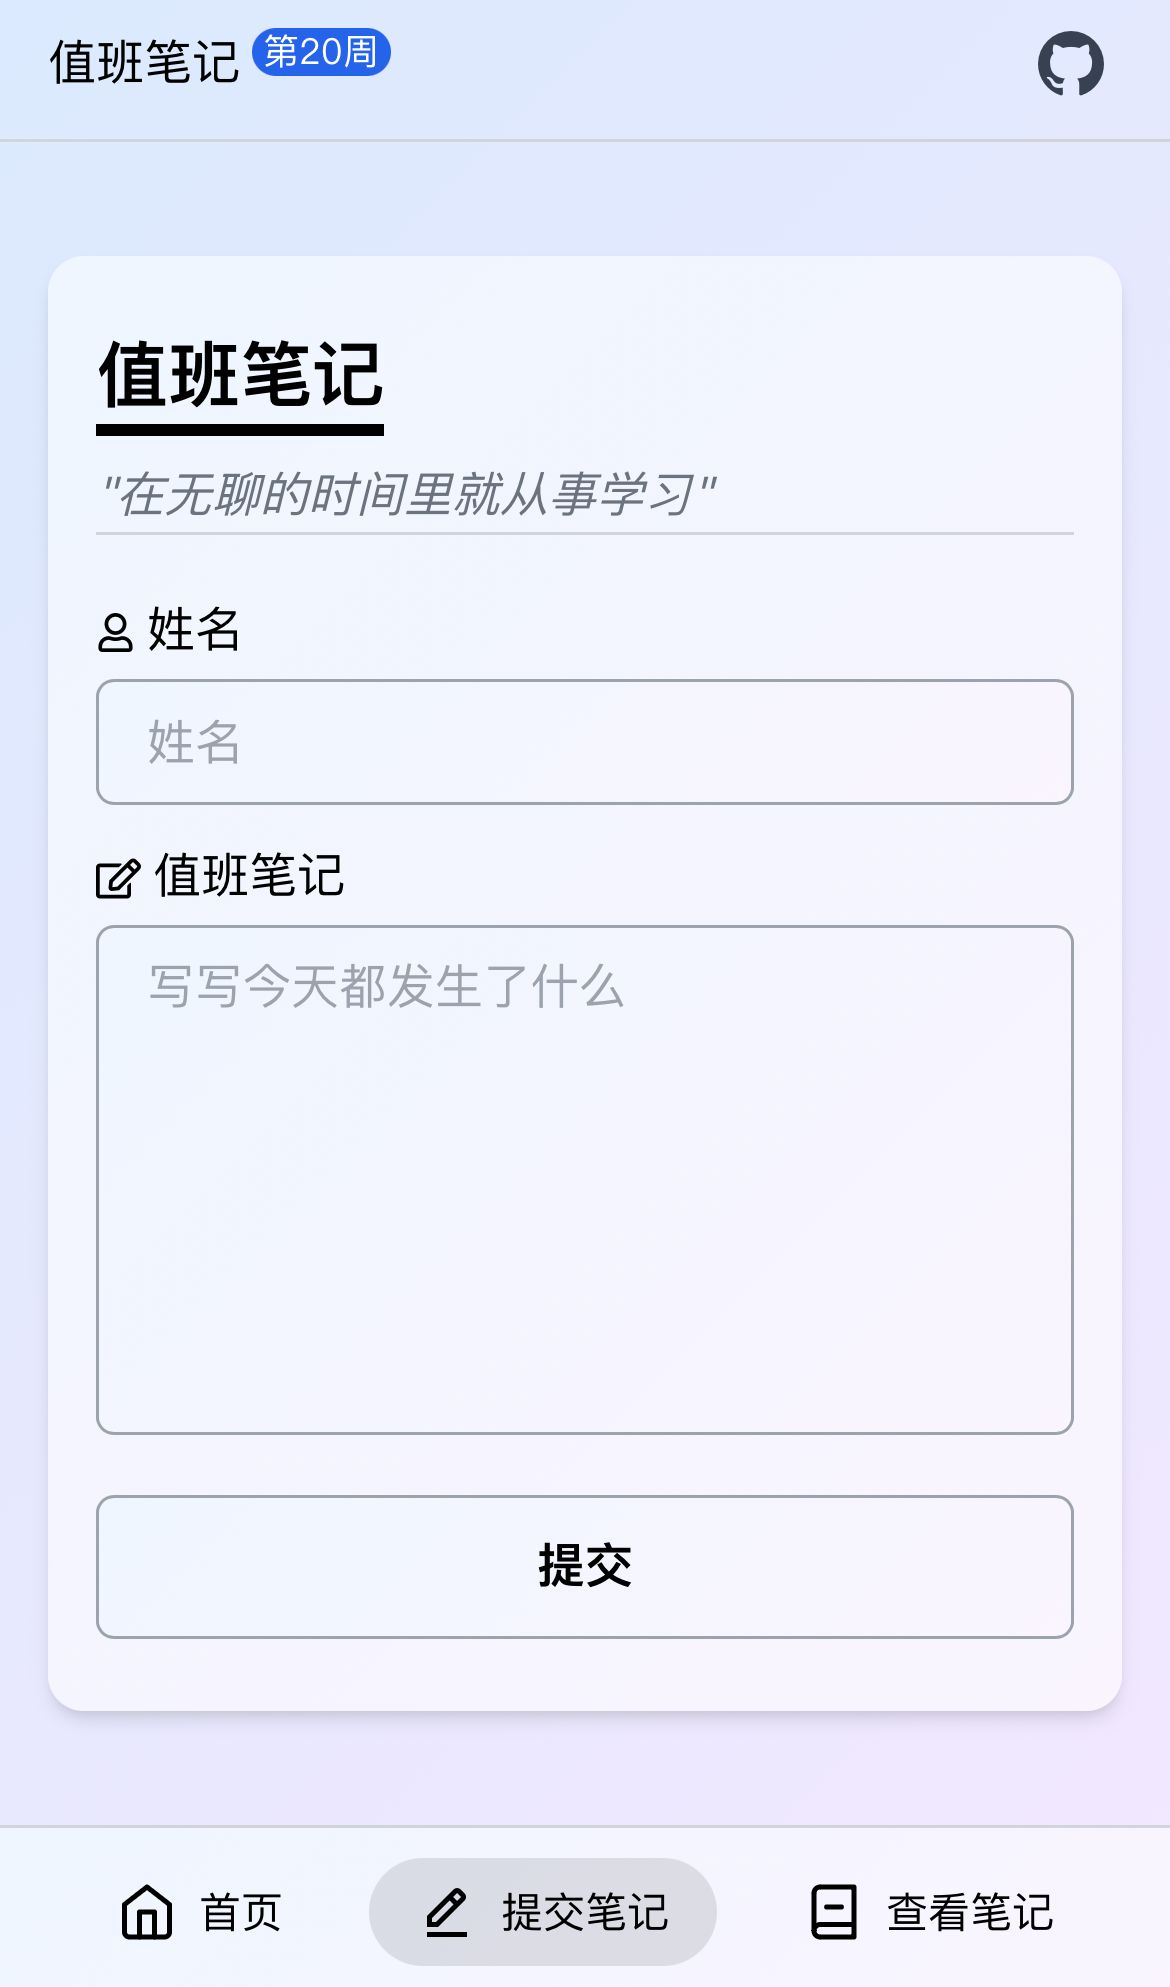
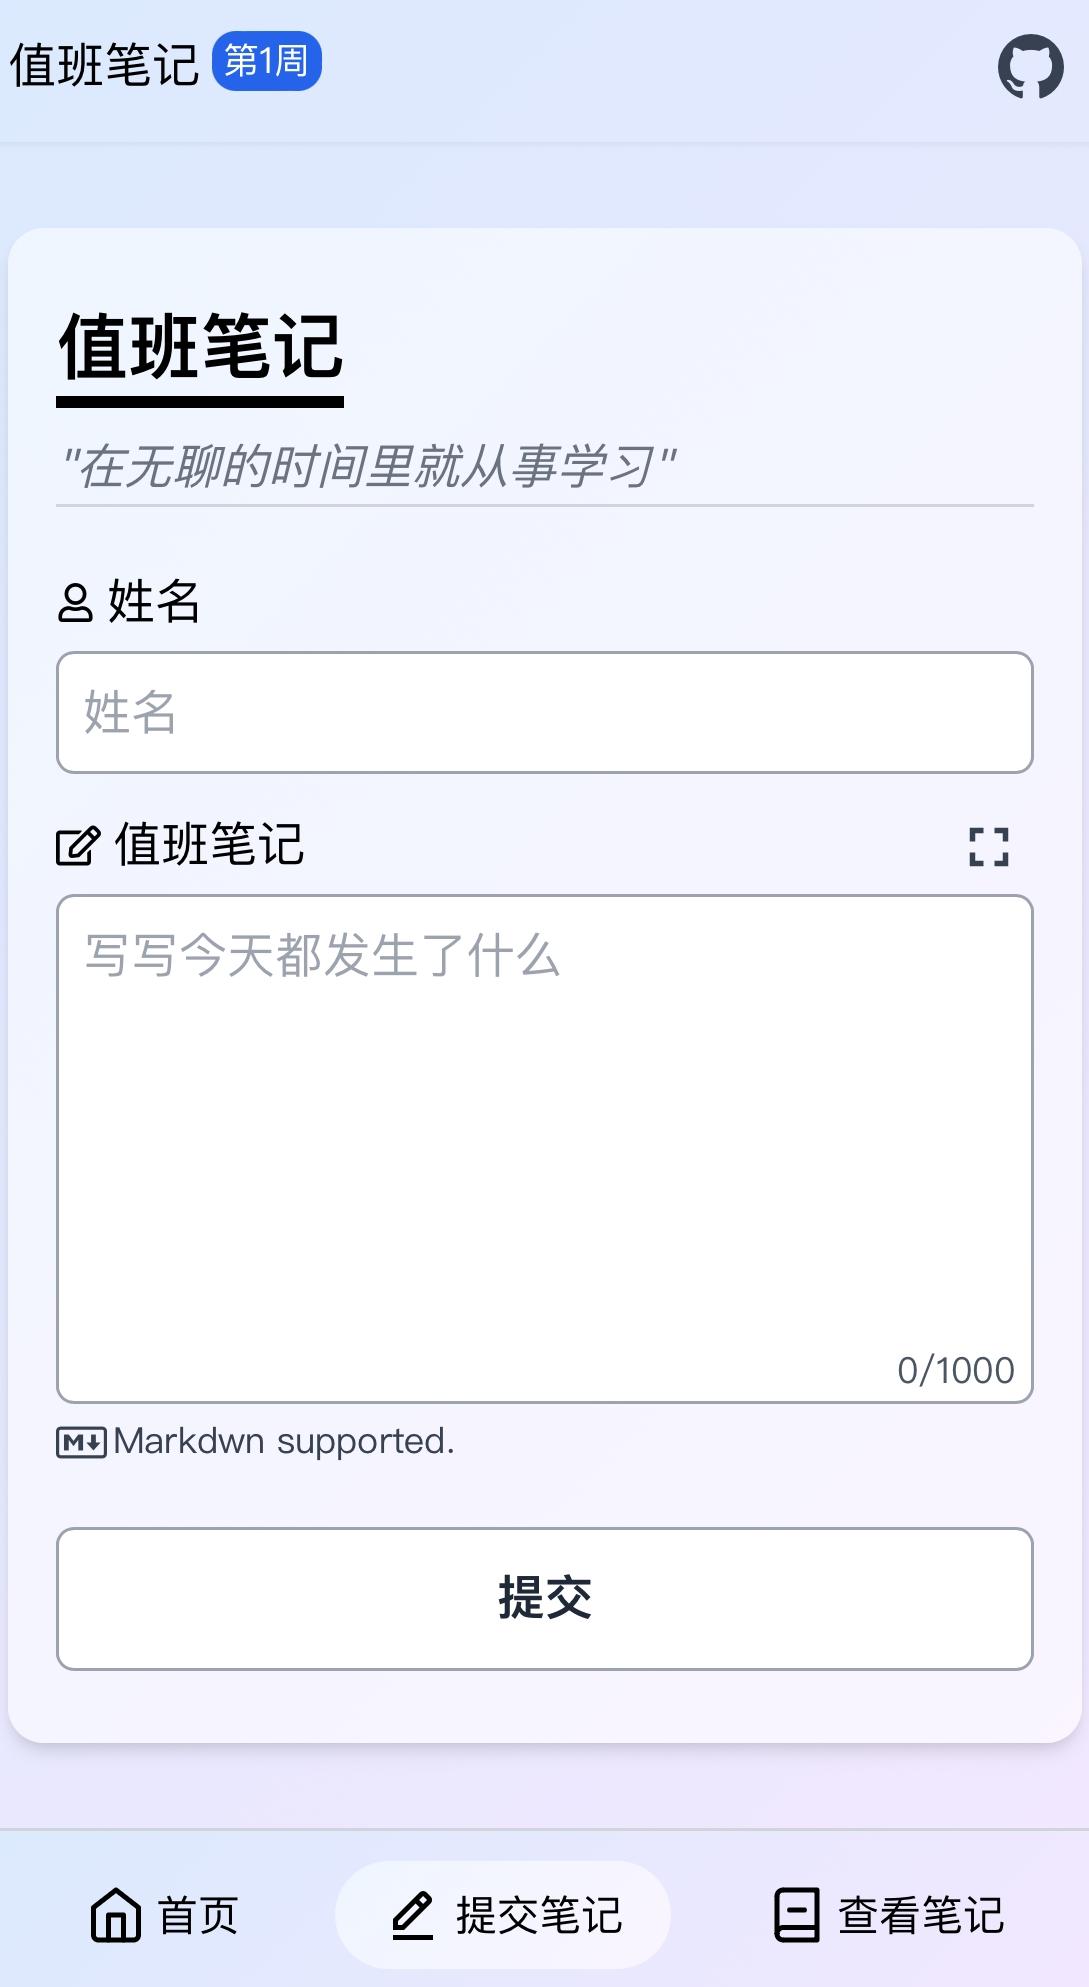
feat: optimise editor on mobile devices

diff --git a/src/app/form/components/Form/Form.tsx b/src/app/form/components/Form/Form.tsx
@@ -6,6 +6,7 @@ import { useFormState } from "react-dom";
 import { useRouter } from "next/navigation";
 import { useState, useEffect } from "react";
 import { LiaMarkdown } from "react-icons/lia";
+import { MdOutlineFullscreen } from "react-icons/md";
 import { FaRegUser, FaRegEdit } from "react-icons/fa";
 
 import action from "../../lib/action";
@@ -13,22 +14,22 @@ import style from "../style.module.css";
 import formatDate from "@/lib/utils/formatDate";
 import { usePopupContext } from "@/contexts/Popup/PopupProvider";
 
-import MarkdownEditor from "./Editor";
+import FullscreenEditor from "./FullscreenEditor";
 import Message from "@/components/Message/Message";
 import SubmitButton from "../SubmitButton/SubmitButton";
 
-const storageName = "user";
-const cookieName = "last_submit";
+const storageName = "punch-username";
+const cookieName = "punch-last-submit-date";
 
 export default function Form() {
   const router = useRouter();
   const { popup } = usePopupContext();
   const [formActionState, formAction] = useFormState(action, null);
 
-  const [formData, setFormData] = useState({ name: "", content: "" });
+  const [fullscreen, setFullscreen] = useState(false);
+  const [name, setName] = useState("");
+  const [content, setContent] = useState("");
   const [status, setStatus] = useState<null | "idle" | "done" | "duplicated">(null);
-
-  const handleChange = (e: any) => setFormData({ ...formData, [e.target.name]: e.target.value });
 
   // handle submit result
   useEffect(() => {
@@ -36,7 +37,7 @@ export default function Form() {
 
     const { success, message } = formActionState;
     if (success) {
-      localStorage.setItem(storageName, JSON.stringify({ name: formData.name }));
+      localStorage.setItem(storageName, name);
       document.cookie = `${cookieName}=${new Date().toISOString()};max-age=${60 * 60 * 24};path=/;`;
       setStatus("done");
       router.refresh();
@@ -48,8 +49,8 @@ export default function Form() {
 
   useEffect(() => {
     // parse user submit info
-    const localUserInfo = localStorage.getItem(storageName);
-    if (localUserInfo) setFormData({ ...formData, ...JSON.parse(localUserInfo) });
+    const localUsername = localStorage.getItem(storageName);
+    if (localUsername) setName(localUsername);
 
     // get last submit time
     const lastSubmit = document.cookie.match(new RegExp("\\b" + cookieName + "\\b=([^;]*)"))?.at(1);
@@ -75,7 +76,14 @@ export default function Form() {
     );
   } else {
     return (
-      <form className={style.form} action={formAction}>
+      <form className={style.form} action={formAction} onSubmit={() => console.log(content)}>
+        <FullscreenEditor
+          content={content}
+          fullscreen={fullscreen}
+          setContent={setContent}
+          setFullscreen={setFullscreen}
+        />
+
         <header className="w-full space-y-2">
           <h1 className="text-2xl font-semibold border-b-4 border-b-black w-fit">值班笔记</h1>
           <p className="text-gray-500 border-b border-b-gray-300 italic">"在无聊的时间里就从事学习"</p>
@@ -88,41 +96,56 @@ export default function Form() {
               <span>姓名</span>
             </label>
             <input
+              autoFocus={name.length === 0}
               required
               type="text"
               name="name"
               id="submitFormName"
               placeholder="姓名"
+              minLength={2}
               maxLength={10}
-              value={formData.name}
-              onChange={handleChange}
+              value={name}
               className={style.input}
+              onChange={(e) => setName(e.target.value)}
             />
           </section>
 
           <section className={style["input-element"]}>
-            <label className={style.label} htmlFor="submitFormContent">
-              <FaRegEdit size={15} />
-              <span>值班笔记</span>
-            </label>
+            <div className="flex flex-row items-center justify-between">
+              <label className={style.label} htmlFor="submitFormContent">
+                <FaRegEdit size={15} />
+                <span>值班笔记</span>
+              </label>
+
+              <button
+                type="button"
+                aria-label="fullscreen"
+                onClick={() => setFullscreen(true)}
+                className="mr-1 text-gray-700"
+              >
+                <MdOutlineFullscreen size={22} />
+              </button>
+            </div>
+
             <textarea
               required
+              maxLength={1000}
               name="content"
-              className="hidden"
               id="submitFormContent"
-              onChange={handleChange}
-              value={formData.content}
+              placeholder="写写今天都发生了什么"
+              value={content}
+              style={{ height: 170 }}
+              autoFocus={name.length > 0}
+              className={style.input}
+              onChange={(e) => setContent(e.target.value)}
             />
 
-            <MarkdownEditor
-              value={formData.content}
-              setValue={(value) => setFormData({ ...formData, content: value })}
-            />
+            <p className="absolute text-gray-600 text-xs bottom-6 right-1.5">{`${content.length}/1000`}</p>
 
             <a
               target="_blank"
               href="https://www.markdownguide.org"
-              className="flex flex-row items-center gap-0.5 text-xs text-gray-700 hover:text-black"
+              className="w-fit flex flex-row items-center gap-0.5 text-xs text-gray-700 hover:text-black"
             >
               <LiaMarkdown size={17} />
               <span>Markdwn supported.</span>

diff --git a/src/app/form/components/Form/FullscreenEditor.tsx b/src/app/form/components/Form/FullscreenEditor.tsx
@@ -1,0 +1,89 @@
+"use client";
+
+import CodeMirror from "@uiw/react-codemirror";
+import { useEffect, useState } from "react";
+import { AnimatePresence, motion } from "framer-motion";
+import { languages } from "@codemirror/language-data";
+import { BasicSetupOptions } from "@uiw/react-codemirror";
+import { markdown, markdownLanguage } from "@codemirror/lang-markdown";
+import { AiOutlineFullscreenExit } from "react-icons/ai";
+import { VscOpenPreview } from "react-icons/vsc";
+import { MdOutlineModeEditOutline } from "react-icons/md";
+
+import style from "./FullscreenEditor.module.css";
+
+import RenderMarkdown from "@/components/RenderMarkdown/RenderMarkdown";
+
+interface Props {
+  content: string;
+  fullscreen: boolean;
+  setContent: Function;
+  setFullscreen: Function;
+}
+
+export default function FullscreenEditor({ content, fullscreen, setContent, setFullscreen }: Props) {
+  const options: BasicSetupOptions = { foldGutter: false };
+
+  const [showPreview, setShowPreview] = useState(false);
+  const [windowWidth, setWindowWidth] = useState(window.innerWidth);
+
+  useEffect(() => {
+    const handleResize = () => setWindowWidth(window.innerWidth);
+    window.addEventListener("resize", handleResize);
+    return () => window.removeEventListener("resize", handleResize);
+  }, []);
+
+  return (
+    <AnimatePresence>
+      {fullscreen && (
+        <motion.div
+          initial={{ x: "100%" }}
+          animate={{ x: 0 }}
+          exit={{ x: "100%" }}
+          transition={{ duration: 0.3 }}
+          className="fixed inset-0 z-10 gradient-100 grid grid-cols-1 md:grid-cols-2 gap-4"
+        >
+          {(windowWidth >= 768 || !showPreview) && (
+            <CodeMirror
+              theme="dark"
+              width="100%"
+              height="100%"
+              value={content}
+              basicSetup={options}
+              placeholder="写写今天都发生了什么"
+              className="overflow-auto text-base h-full"
+              onChange={(value) => setContent(value)}
+              extensions={[markdown({ base: markdownLanguage, codeLanguages: languages })]}
+            />
+          )}
+
+          {(windowWidth >= 768 || showPreview) && (
+            <RenderMarkdown content={content} className="overflow-auto px-4 md:px-0" />
+          )}
+
+          <div className="absolute right-4 md:right-10 bottom-10 flex flex-col gap-2">
+            {windowWidth < 768 && content.length > 0 && (
+              <button
+                type="button"
+                aria-label="toggle preview"
+                className={style["icon-btn"]}
+                onClick={() => setShowPreview(!showPreview)}
+              >
+                {showPreview ? <MdOutlineModeEditOutline size={23} /> : <VscOpenPreview size={23} />}
+              </button>
+            )}
+
+            <button
+              type="button"
+              aria-label="exit full screen"
+              className={style["icon-btn"]}
+              onClick={() => setFullscreen(false)}
+            >
+              <AiOutlineFullscreenExit size={25} />
+            </button>
+          </div>
+        </motion.div>
+      )}
+    </AnimatePresence>
+  );
+}

diff --git a/src/app/form/lib/action.ts b/src/app/form/lib/action.ts
@@ -5,7 +5,6 @@ import notes from "@/lib/mongodb/notes";
 import getISOWeekNumber from "@/lib/utils/getISOWeekNumber";
 
 import { revalidatePath } from "next/cache";
-import { NoteWithoutWeek } from "@/types/notes";
 
 export default async function action(prev: any, formData: FormData) {
   // validate submit date
@@ -16,17 +15,16 @@ export default async function action(prev: any, formData: FormData) {
 
   // get form data
   const name = formData.get("name")?.toString().trim();
-  const content = formData.get("content")?.toString().trim();
+  const content = formData.get("content")?.toString().replaceAll("\r", "").trim();
 
   // validate form data
-  const parsedResult = NoteWithoutWeek.safeParse({ name, content });
-  if (!parsedResult.success) {
-    return { success: false, message: "提交失败，表单内容不合法" };
-  }
+  if (!name || name.length < 2 || name.length > 10) return { success: false, message: "姓名长度应该在2-10位之间" };
+  else if (!content || content.length < 4 || content.length > 1000)
+    return { success: false, message: "值班笔记长度应该在10-1000位之间" };
 
   // insert into database
   const week = getISOWeekNumber(now) - getISOWeekNumber(env.FIRST_WEEK) + 1;
-  const result = await notes.insert({ week, ...parsedResult.data });
+  const result = await notes.insert({ week, name, content });
 
   // revalidate and resonse result
   if (result.success) revalidatePath("/view", "page");

diff --git a/src/app/form/components/style.module.css b/src/app/form/components/style.module.css
@@ -15,15 +15,19 @@
 
 /* input */
 .input-element {
-  @apply w-full flex flex-col gap-1;
+  @apply w-full flex flex-col gap-1 relative;
 }
 
 .label {
-  @apply flex flex-row items-center gap-1;
+  @apply w-fit flex flex-row items-center gap-1;
 }
 
 .input {
-  @apply font-mono resize-none w-full h-full outline-none bg-white border border-gray-400 p-2 rounded-md;
+  @apply w-full resize-none h-full outline-none bg-white border border-gray-400 p-2 rounded-md;
+}
+
+.input:focus {
+  @apply outline outline-blue-600;
 }
 
 /* submit button */

diff --git a/src/app/view/components/Table/Table.tsx b/src/app/view/components/Table/Table.tsx
@@ -37,7 +37,11 @@ export default function Table() {
                     <span>{formatDate(note.date)}</span>
                   </h2>
 
-                  <RenderMarkdown content={note.content} />
+                  {new Date(note.date).getFullYear() >= 2024 ? (
+                    <RenderMarkdown content={note.content} />
+                  ) : (
+                    <p className="whitespace-pre-wrap mt-2">{note.content}</p>
+                  )}
                 </div>
               </li>
             ))}

diff --git a/src/components/RenderMarkdown/RenderMarkdown.tsx b/src/components/RenderMarkdown/RenderMarkdown.tsx
@@ -10,11 +10,7 @@ import "./prism-atom-dark.css";
 
 export default function RenderMarkdown({ content, className }: { content: string; className?: string }) {
   return (
-    <Markdown
-      remarkPlugins={[remarkGfm]}
-      rehypePlugins={[rehypePrism]}
-      className={clsx("markdown w-full h-full overflow-y-auto", className)}
-    >
+    <Markdown remarkPlugins={[remarkGfm]} rehypePlugins={[rehypePrism]} className={clsx("markdown", className)}>
       {content}
     </Markdown>
   );

diff --git a/src/app/view/components/Searchbar/Searchbar.module.css b/src/app/view/components/Searchbar/Searchbar.module.css
@@ -1,3 +1,7 @@
 .wrapper {
-  @apply gradient-50 shadow-md w-full flex flex-row items-center justify-end gap-1 rounded-md py-2.5 px-3 animate-slideFromTop;
+  @apply outline-none gradient-50 shadow-md w-full flex flex-row items-center justify-end gap-1 rounded-md py-2.5 px-3 animate-slideFromTop;
+}
+
+.wrapper:focus-within {
+  @apply outline outline-blue-600;
 }

diff --git a/src/app/view/components/Tabs/Tabs.tsx b/src/app/view/components/Tabs/Tabs.tsx
@@ -22,8 +22,8 @@ function Tab({ Icon, tab }: { Icon: IconType; tab: TabType }) {
 export default function Tabs() {
   return (
     <div className="w-fit flex flex-row p-1 rounded-md bg-black/5 isolate">
-      <Tab Icon={PiChartLine} tab="chart" />
       <Tab Icon={CiViewTable} tab="table" />
+      <Tab Icon={PiChartLine} tab="chart" />
     </div>
   );
 }

diff --git a/src/app/form/components/Form/FullscreenEditor.module.css b/src/app/form/components/Form/FullscreenEditor.module.css
@@ -1,0 +1,7 @@
+.icon-btn {
+  @apply w-10 h-10 bg-black/50 duration-300 text-white rounded-full grid place-content-center;
+}
+
+.icon-btn:hover {
+  @apply md:bg-black/70;
+}
